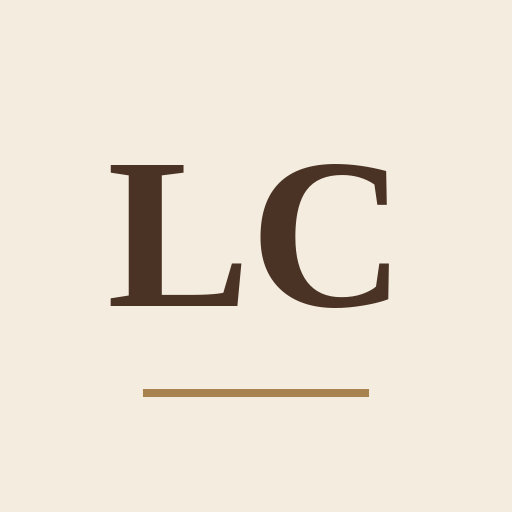
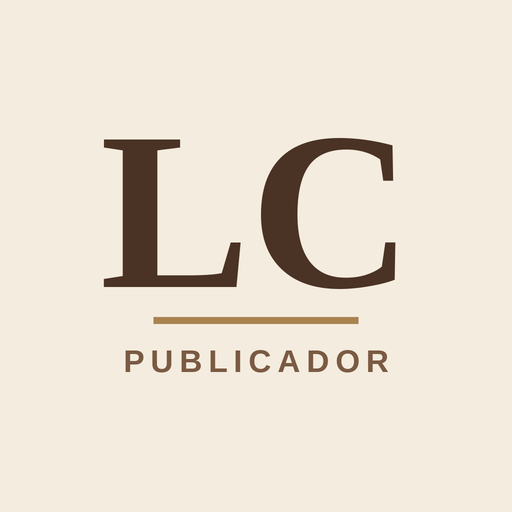
App: ícone novo LC Publicador
Claude-Session: https://claude.ai/code/session_01YZTk5zvoqhkPhLRKLY1tuB

Changed region(s): [[0.1875, 0.25, 0.7812, 0.6562], [0.2188, 0.6562, 0.7812, 0.7812]]

diff --git a/app/index.html b/app/index.html
@@ -11,7 +11,8 @@
 <meta name="apple-mobile-web-app-status-bar-style" content="black-translucent">
 <link rel="manifest" href="manifest.webmanifest">
 <link rel="apple-touch-icon" href="apple-touch-icon.png">
-<link rel="icon" href="icone-192.png">
+<link rel="icon" href="favicon-32.png" sizes="32x32">
+<link rel="icon" href="icone-192.png" sizes="192x192">
 <style>
 :root{--creme:#F4ECDF;--creme2:#EADFCB;--creme3:#FBF7F0;--marrom:#4A3324;--marrom2:#7A5A42;--ouro:#A8834F;--ok:#3F7D4E;--erro:#B3412E;--pend:#8A7A66;--sombra:0 6px 24px rgba(74,51,36,.12)}
 *{box-sizing:border-box}
